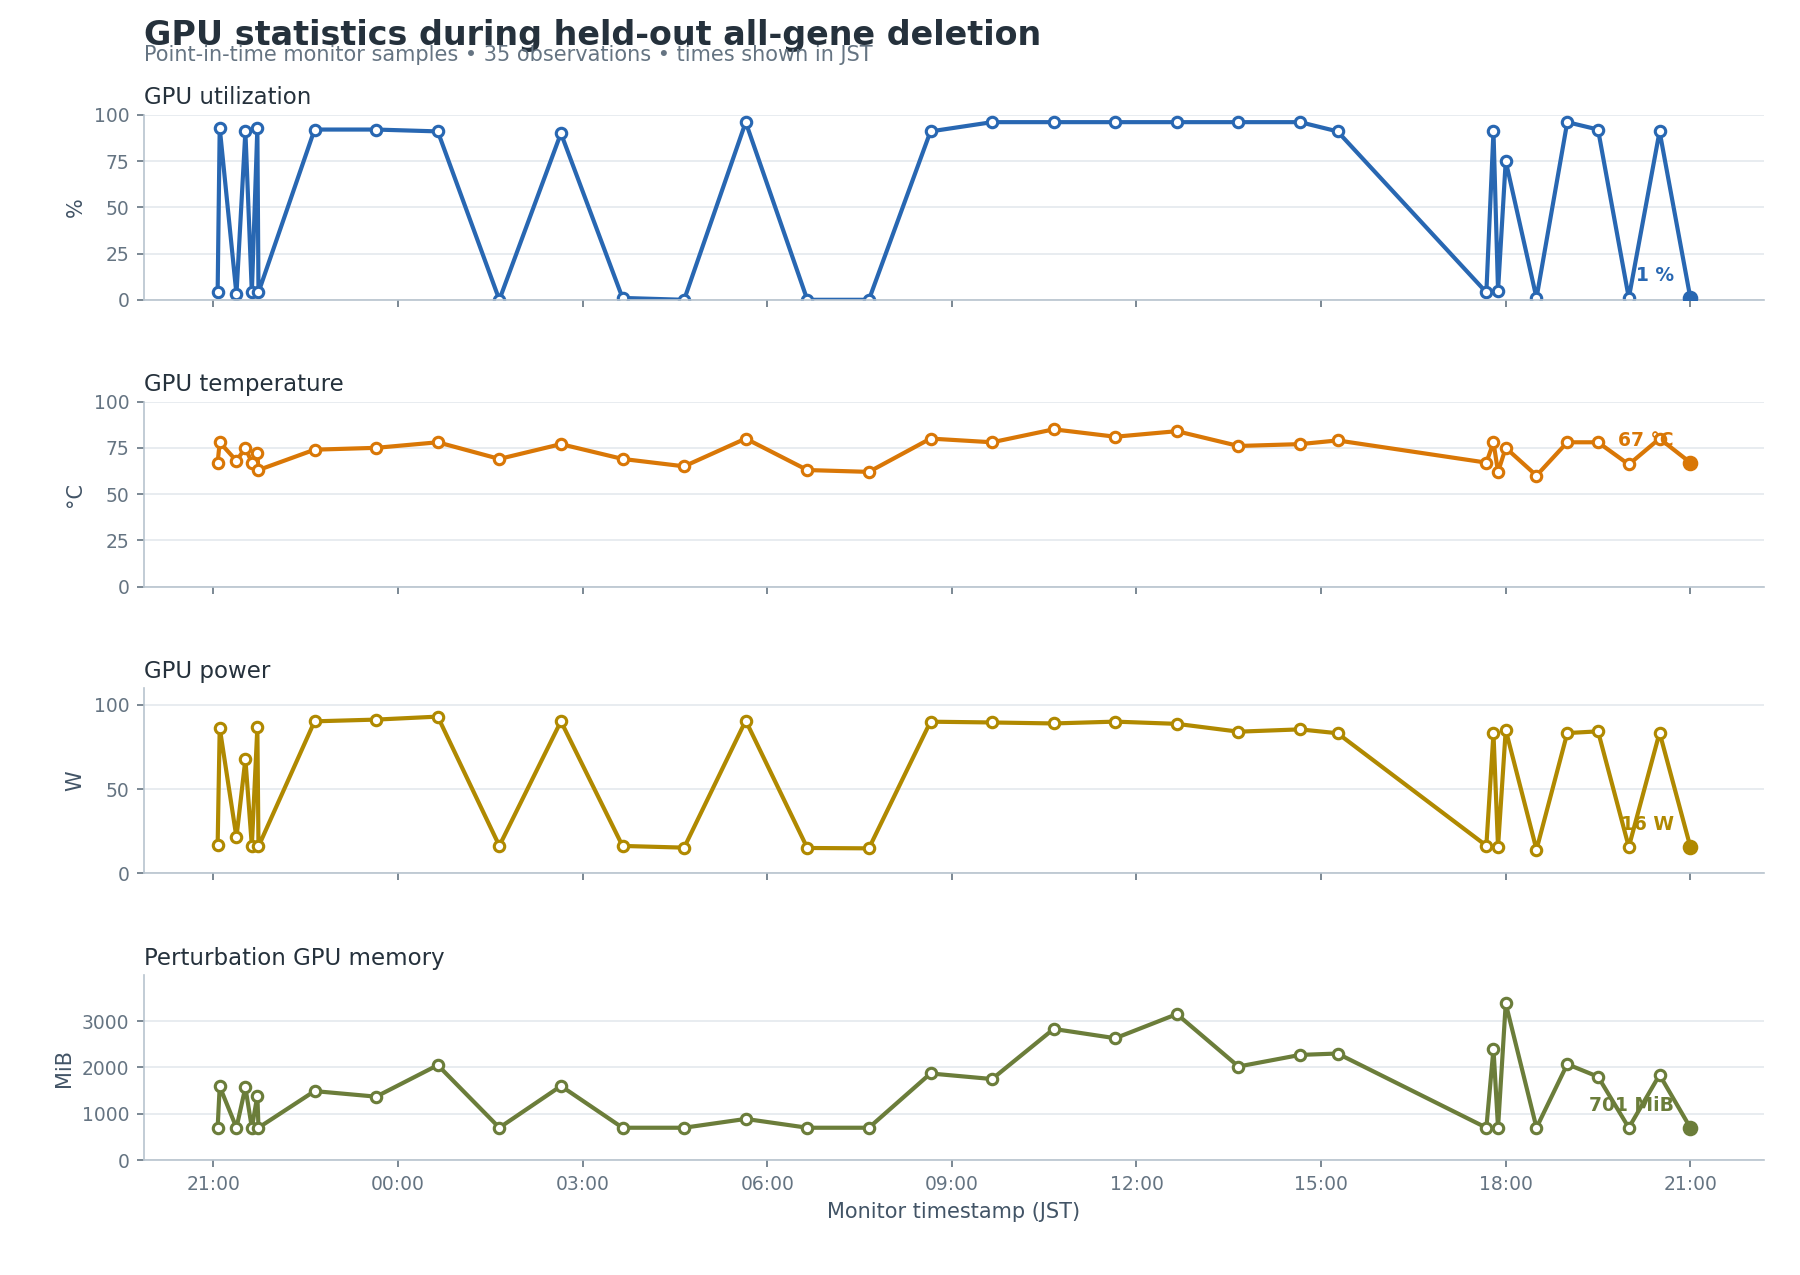
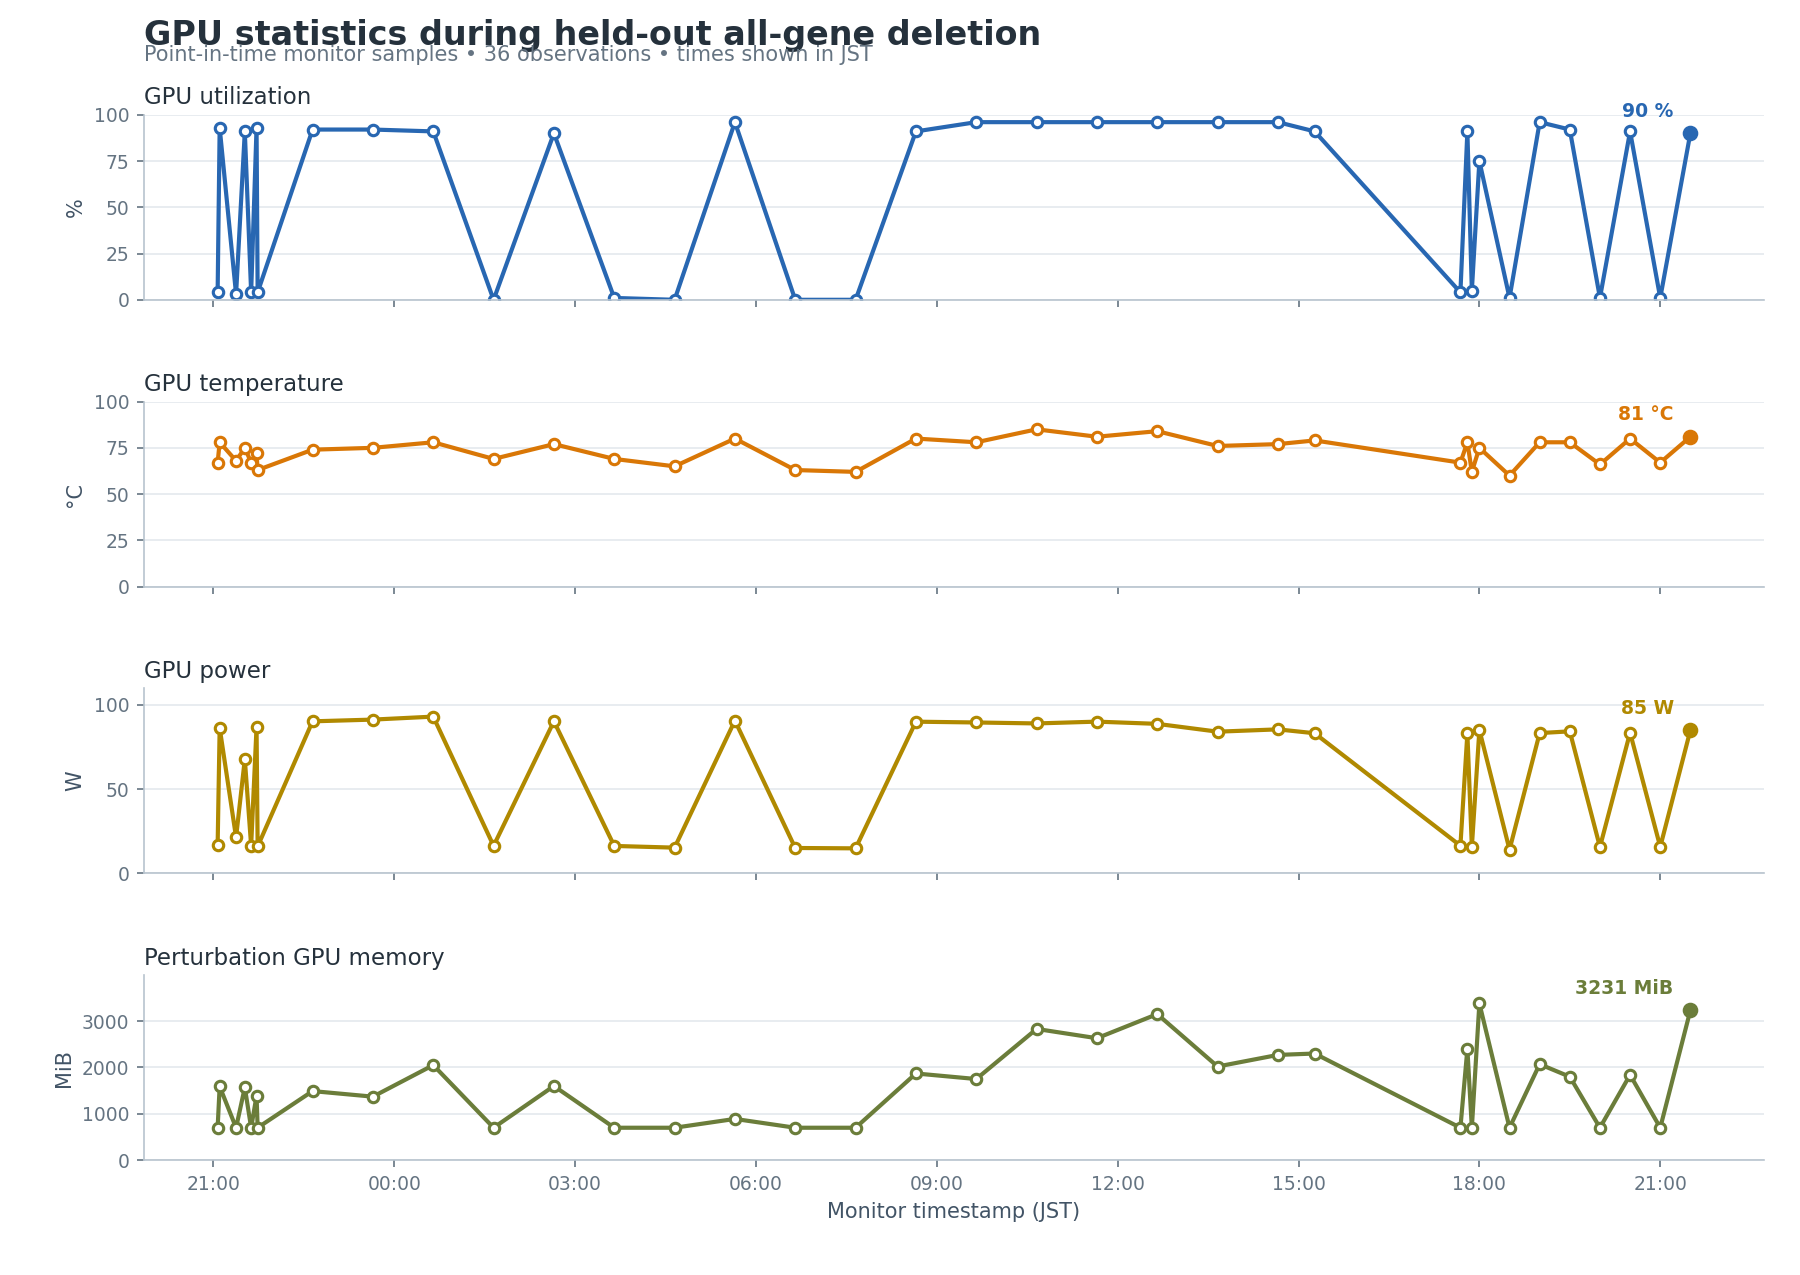
monitor: update perturbation status 2026-07-18 21:30 JST

diff --git a/current_workflow/monitoring/GPU_PROGRESS_REPORT.md b/current_workflow/monitoring/GPU_PROGRESS_REPORT.md
@@ -15,6 +15,7 @@ Newest refreshes are appended at the top and retained for the most recent
 48 runs.
 
 <!-- JOB_RUN_SUMMARIES_START -->
+- **2026-07-18T21:30:01+09:00** — RUNNING; 2,948 / 3,379 cells (87.24%). The run advanced by 44 cells and 2 shards, lifting completion from 85.94% to 87.24%. LUSC remained complete; LUAD remained complete; NORMAL moved from 933 to 977 cells; GPU utilization rose from 1% to 90%.
 - **2026-07-18T21:00:02+09:00** — RUNNING; 2,904 / 3,379 cells (85.94%). The run advanced by 45 cells and 2 shards, lifting completion from 84.61% to 85.94%. LUSC remained complete; LUAD remained complete; NORMAL moved from 888 to 933 cells; GPU utilization fell from 91% to 1%.
 - **2026-07-18T20:30:01+09:00** — RUNNING; 2,859 / 3,379 cells (84.61%). The run advanced by 46 cells and 2 shards, lifting completion from 83.25% to 84.61%. LUSC remained complete; LUAD remained complete; NORMAL moved from 842 to 888 cells; GPU utilization rose from 1% to 91%.
 - **2026-07-18T20:00:01+09:00** — RUNNING; 2,813 / 3,379 cells (83.25%). The run advanced by 47 cells and 2 shards, lifting completion from 81.86% to 83.25%. LUSC remained complete; LUAD remained complete; NORMAL moved from 795 to 842 cells; GPU utilization fell from 92% to 1%.
@@ -29,20 +30,20 @@ Newest refreshes are appended at the top and retained for the most recent
 
 ## Current snapshot
 
-**What changed since the prior report:** The run advanced by 45 cells and 2 shards, lifting completion from 84.61% to 85.94%. LUSC remained complete; LUAD remained complete; NORMAL moved from 888 to 933 cells; GPU utilization fell from 91% to 1%.
+**What changed since the prior report:** The run advanced by 44 cells and 2 shards, lifting completion from 85.94% to 87.24%. LUSC remained complete; LUAD remained complete; NORMAL moved from 933 to 977 cells; GPU utilization rose from 1% to 90%.
 
 | Metric | Value |
 | --- | --- |
-| Generated | 2026-07-18T21:00:02+09:00 |
+| Generated | 2026-07-18T21:30:01+09:00 |
 | Run status | RUNNING |
-| Overall cell progress | 2,904 / 3,379 (85.94%) |
+| Overall cell progress | 2,948 / 3,379 (87.24%) |
 | GPU | NVIDIA GB10 |
-| GPU utilization | 1% |
-| GPU temperature | 67 C |
-| GPU power | 15.8 W |
-| Perturbation GPU memory | 701 MiB |
-| System memory used | 41.6 GiB |
-| System memory available | 78.1 GiB |
+| GPU utilization | 90% |
+| GPU temperature | 81 C |
+| GPU power | 85.0 W |
+| Perturbation GPU memory | 3,231 MiB |
+| System memory used | 39.7 GiB |
+| System memory available | 80.0 GiB |
 | Swap used | 0.0 GiB |
 
 ### Progress by source
@@ -51,11 +52,11 @@ Newest refreshes are appended at the top and retained for the most recent
 | --- | --- | --- | --- | --- |
 | LUSC | 560 / 560 (100.00%) | 23 / 23 | 1,120 | 348,313 / 348,313 |
 | LUAD | 1,411 / 1,411 (100.00%) | 57 / 57 | 2,822 | 1,150,097 / 1,150,097 |
-| NORMAL | 933 / 1,408 (66.26%) | 37 / 57 | 1,877 | 951,500 / 1,439,366 |
+| NORMAL | 977 / 1,408 (69.39%) | 39 / 57 | 1,968 | 1,001,869 / 1,439,366 |
 
 ## Final statistical comparisons
 
-**0 / 6 comparisons are complete. Final aggregation waits for the deletion screen, currently 117 / 137 shards.**
+**0 / 6 comparisons are complete. Final aggregation waits for the deletion screen, currently 119 / 137 shards.**
 
 | Comparison | State | Result rows | Updated | Output |
 | --- | --- | --- | --- | --- |
@@ -80,6 +81,7 @@ The history table below shows the newest samples first.
 
 | Timestamp | Cells | Progress | GPU util | Temp | Power | Shards |
 | --- | --- | --- | --- | --- | --- | --- |
+| 2026-07-18T21:30:01+09:00 | 2,948 | 87.24% | 90% | 81 C | 85.0 W | 119 |
 | 2026-07-18T21:00:02+09:00 | 2,904 | 85.94% | 1% | 67 C | 15.8 W | 117 |
 | 2026-07-18T20:30:01+09:00 | 2,859 | 84.61% | 91% | 80 C | 83.5 W | 115 |
 | 2026-07-18T20:00:01+09:00 | 2,813 | 83.25% | 1% | 66 C | 15.7 W | 113 |
@@ -87,7 +89,6 @@ The history table below shows the newest samples first.
 | 2026-07-18T19:00:01+09:00 | 2,729 | 80.76% | 96% | 78 C | 83.3 W | 110 |
 | 2026-07-18T18:30:01+09:00 | 2,692 | 79.67% | 1% | 60 C | 14.1 W | 108 |
 | 2026-07-18T18:00:01+09:00 | 2,646 | 78.31% | 75% | 75 C | 85.2 W | 107 |
-| 2026-07-18T17:52:31+09:00 | 2,630 | 77.83% | 5% | 62 C | 15.7 W | 106 |
 
 ## Job notes
 
